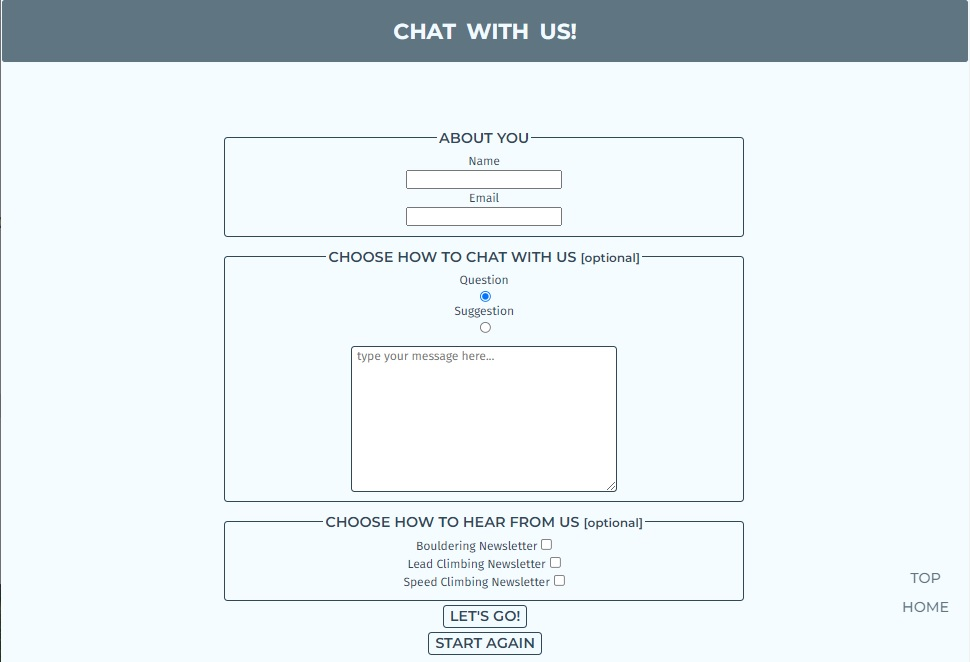
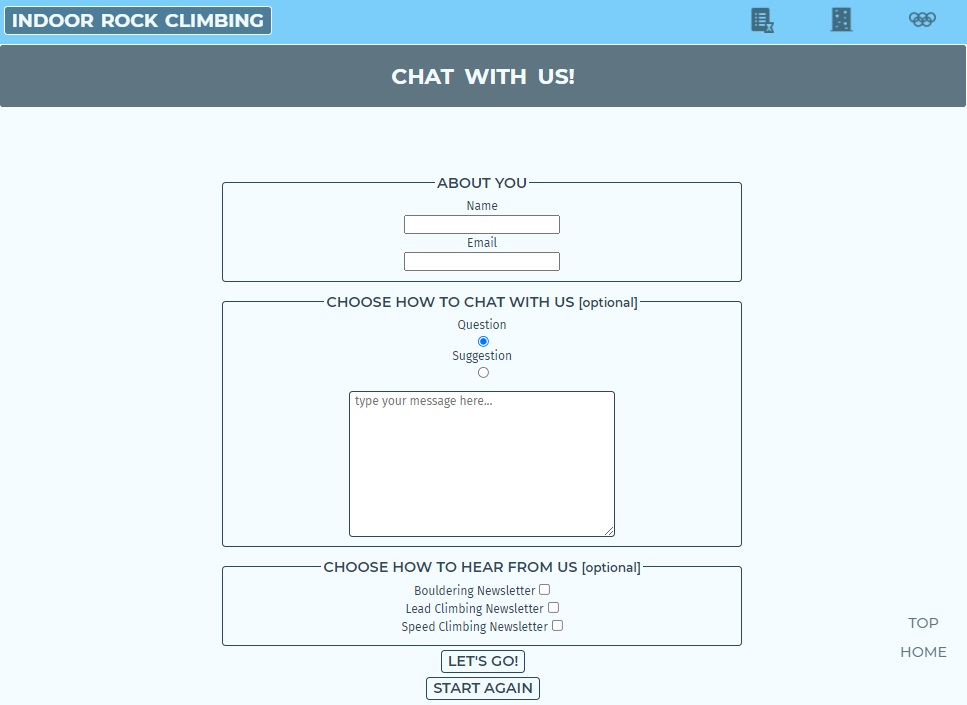
Add new images for site credits, thank you page and form for within the README and make gramamtical changes

diff --git a/README.md b/README.md
@@ -11,14 +11,11 @@ This site provides an insight into the rules, equipment and technical language i
 ## Contents [**to complete - will work once each section is complete**]
 ---
 
-* [Initial Project Vision](https://github.com/mountaincharlie/project-one-rock-climbing#initial-project-vision)
-* [Technologies](https://github.com/mountaincharlie/project-one-rock-climbing#technologies)
-* [Features](https://github.com/mountaincharlie/project-one-rock-climbing#features)
-* [Pages](https://github.com/mountaincharlie/project-one-rock-climbing#pages)
+* [Technologies Used](https://github.com/mountaincharlie/project-one-rock-climbing#technologies-used)
+* [Pages and Features Breakdown](https://github.com/mountaincharlie/project-one-rock-climbing#pages-and-features-breakdown)
 * [Responsiveness](https://github.com/mountaincharlie/project-one-rock-climbing#responsiveness)
-* [UXD](https://github.com/mountaincharlie/project-one-rock-climbing#uxd)
+* [User Experience Design](https://github.com/mountaincharlie/project-one-rock-climbing#user-experience-design)
 * [Accessability](https://github.com/mountaincharlie/project-one-rock-climbing#accessability)
-* [Other Feature Ideas](https://github.com/mountaincharlie/project-one-rock-climbing#other-feature-ideas)
 * [Testing](https://github.com/mountaincharlie/project-one-rock-climbing#testing)
 * [Deployment](https://github.com/mountaincharlie/project-one-rock-climbing#deployment)
 * [Credits](https://github.com/mountaincharlie/project-one-rock-climbing#credits)
@@ -43,8 +40,8 @@ This site provides an insight into the rules, equipment and technical language i
 ![Screenshot of Homepage header logo and welcome banner](./assets/images/homepage-header-welcome.jpg "Homepage header logo and welcome banner")
 
 * Main Navigation: 
-    * Found below the Welcome banner and is the main feature of the homepage.
-    * Contains links to the 'Background', 'The 3 Main Climbing Disciplines' and 'As Seen At Tokyo 2020' pages with icons related to the page headings.
+    * Found below the Welcome banner and is the primary feature of the homepage.
+    * Contains links to the 'Background', 'The 3 Main Climbing Disciplines' and 'As Seen At Tokyo 2020' informational pages with icons related to the page headings.
 * Background image:
      * Draws the attention of the user as its colourful but the white linear-gradient placed over it means it doesn't distract from the page content. 
 
@@ -82,15 +79,15 @@ This site provides an insight into the rules, equipment and technical language i
 ![Screenshot of The Brief Background of Rock Climbing section](./assets/images/brief-background.jpg "The Brief Background of Rock Climbing section")
 
 * The Climbing Terminology section:
-    * Explains briefly about the terminology/slang in the climbing community, which is an aspect of the sport which can be confusing for those who are new to it.
+    * Explains briefly about the terminology/slang in the climbing community, which is an aspect of the sport that can be confusing for those who are new to it.
     * Contains four subsections which catagorise the most common climbing terminology to make it easer for the user to explore the different terms.
 
 ![Screenshot of The Climbing Terminology section](./assets/images/climbing-terms.jpg "The Climbing Terminology section")
 
 * Terminology subsections:
-    * Cover four catagories: Climbing Holds, Types of Climbing Walls, Climbing Technique and Competition Specific
-    * Contain an explanatory for the subsection catagory and explain that the user should hover over/tap on the informational tiles to find out the explanations for each term.
-    * Contain informational tiles, which expand and change colour when the user hovers over it on a desktop or taps it on a smart phone, to provide the term's explanation.
+    * Cover four catagories; Climbing Holds, Types of Climbing Walls, Climbing Technique and Competition Specific
+    * Contain an explanation for the subsection catagory and explain that the user should hover over/tap on the informational tiles to find out the defintions for each term.
+    * Contain informational tiles, which expand and change colour when the user hovers over it on a desktop or taps it on a smart phone, to provide the term's definition.
 
 ![Screenshot of Types of Climbing Walls Terminology subsection](./assets/images/term-subsections.jpg "Types of Climbing Walls Terminology subsection")
 
@@ -130,6 +127,7 @@ This site provides an insight into the rules, equipment and technical language i
 * The First Olympic Apperance section:
     * Contains a short embedded YouTube video from the Olympics offical YouTube account about the sport's first olympic appearance.
     * Contains a blockquote for the english translation of the Olympic Motto which is mentioned at the end of the YouTube video.  
+    * Contains a short paragraph about what it meant for the climbing community to have their sport in the Olympics for the first time.
 
 ![Screenshot of The First Olympic Apperance section](./assets/images/first-appearance.jpg "The First Olympic Apperance section")
 
@@ -165,7 +163,7 @@ This site provides an insight into the rules, equipment and technical language i
     * The user's details are required inputs for the form and will prompt the user to enter a correct name/email address if they try to submit without.
     * There are radio inputs for the optional contact so that the user can submit a question or suggestion and this allows us to catagorise what kind of contact the user is making.
     * There are tickbox inputs for the optional newsletter signups so the user can choose which specific newsletters they may want to sign up to.  
-* Contains a 'LET'S GO!" submit input to submit the form and a 'STAR AGAIN' reset input to reset the form.
+* Contains a 'LET'S GO!" submit input to submit the form and a 'START AGAIN' reset input to reset the form.
 
 ![Screenshot of The Chat With Us! Form](./assets/images/form.jpg "The Chat With Us! Form")
 
@@ -184,10 +182,10 @@ This site provides an insight into the rules, equipment and technical language i
 
 ![Screenshot of The Site Credits Page](./assets/images/site-credits.jpg "The Site Credits Page")
 
-## User Experience Design (UXD) [**to complete**]
+## User Experience Design [**to complete**]
 ---
 
-In order for users to have a good experience while using the website, I followed the user centered design process, mading sure to consider the usefulness, usability and value of different features of the site and making them intuative, simple and enjoyable.  
+In order for users to have a good experience while using the website, I followed the user centered design process, making sure to consider the usefulness, usability and value of different features of the site and that they were intuative, simple and enjoyable.  
 
 ### Styling 
 * Colour scheme: 
@@ -285,7 +283,7 @@ In order to make the website more accessible, for those who rely on screen reade
 ## Testing [**to complete**]
 ---
 
-### HTML & CSS validator warnings and fixes:
+### HTML & CSS validator warnings and fixes
 * [19-10-21] 1st testing index.html in WC3 markup validator indicated:
     * that I had section elements without headings, which led me to create the welcome h2 heading for the #welcome-para section and to realise that my main-nav nav element did not need to be within a section element.
     * that I had anchor elements within button elements, which led me to research buttons vs anchor elements from an accessability point of view and to ulitmately change the buttons to just be anchor element links (as explained in the Accessability section).
@@ -305,7 +303,7 @@ In order to make the website more accessible, for those who rely on screen reade
 
 ![Screenshot of Google Dev Tool's Lighthouse Score for my website](./assets/images/lighthouse-score.jpg "Google Dev Tool's Lighthouse Score for my website") 
 
-### Bugs and Fixes:
+### Bugs and Fixes
 * [21-10-21] couldn't get the font-weight property to work for my Monserrat and Roboto Google Fonts. 
     * Solution: After searching through the Google Fonts site I realised I needed to import all of the font weights that I wanted to use in my website, so I imported a number that I wanted to try.  
 * [24-10-21] on larger screens some of my pages which didn't have a lot of content ment that the footer was not at the bottom of the viewport. 
@@ -322,13 +320,13 @@ No unfixed bugs.
 ## Deployment [**to complete**]
 ---
 
-### Deployment Process on GitHub:
+### Deployment Process on GitHub
 * I selected the Settings tab from within the project-one-rock-climbing repository 
 * The selected the Pages tab within Settings
 * Then chose Main from the Branch dropdown menu
 * Finally, the page then provided the live link to my website and after a few minutes it was ready to be viewed
 
-### Live website link:
+### Live website link
 * <a href = "https://mountaincharlie.github.io/project-one-rock-climbing/">Indoor Rock Climbing</a>
 
 ## Credits [**to complete**]
@@ -391,41 +389,41 @@ Page content:
 ##  Site Expansions Ideas [**to complete**] 
 ---
 
-Features that could be added to expand and improve the website.
+Features that could be added to expand and improve the website in the future.
 
-### Fixed navigation links:
-Like the 3 icon links for the Bouldering, Lead Climbing and Speed sections on my The Three Main Climbing Disciplines page, it would be nice to add these extra navigation features on the Background and As Seen At Tokyo 2020 pages. 
+### Fixed navigation links for sections within the pages
+* Like the 3 icon links for the Bouldering, Lead Climbing and Speed sections on my The Three Main Climbing Disciplines page, it would be nice to add these extra navigation features on the Background and As Seen At Tokyo 2020 pages. 
 
-### Icons for the TOP and HOME links:
-To give some more uniformity with the icons on my The Three Main Climbing Disciplines page, it would be nice to replace the TOP and HOME fixed-links with icons like an up arrow for TOP and a house for HOME.
+### Icons for the TOP and HOME links
+* To give some more uniformity with the icons on my The Three Main Climbing Disciplines page, it would be nice to replace the TOP and HOME fixed-links with icons like an up arrow for TOP and a house for HOME.
 
-### Images for the equipment required:
-Having pictures of the equipment such as the climbing shoes and harnesses could help users who haven't seen the equipment make sense of it more in their head. 
+### Images for the equipment required
+* Having pictures of the equipment such as the climbing shoes and harnesses could help users who haven't seen the equipment make sense of it more in their head. 
 
-### Videos for the equipment required: 
-Videos could be used to demonstrate how to use the climbing equipment and/or to show some best practices in rock climbing.
+### Videos for the equipment required
+* Videos could be used to demonstrate how to use the climbing equipment and/or to show some best practices in rock climbing.
 
-### Paraclimbing page:
-Include a page about paraclimbers; more information on accessability for different people in climbing, about casual and competative paraclimbing and the possibility of it making an apperance in a later Paraolympics.
+### Paraclimbing page
+* Include a page about paraclimbers; more information on accessability for different people in climbing, about casual and competative paraclimbing and the possibility of it making an apperance in a later Paraolympics.
 
-### Find a gym near you function:
-Using Google Maps inside the website so the user can type in their location and what type of climbing they would like to try and would show them the best matches in their area and a way for the user to click a link to the website of the climbing gym(s) they discover.
+### Find a gym near you function
+* Using Google Maps inside the website so the user can type in their location and what type of climbing they would like to try and would show them the best matches in their area and a way for the user to click a link to the website of the climbing gym(s) they discover.
 
-### Site specific social media:
-Social media aspect for climbers to get in contact with eachother, perhaps based on the gym they use. 
+### Site specific social media
+* Social media aspect for climbers to get in contact with eachother, perhaps based on the gym they use. 
 
-### 'Climb-through' quiz:
-A basic quiz game where the user works their way up a climbing wall, in a 'climb-through' (as opposed to a walk-through), by answering different questions about things learnt on the site (rules, technique, equipment etc...).
+### 'Climb-through' quiz
+* A basic quiz game where the user works their way up a climbing wall, in a 'climb-through' (as opposed to a walk-through), by answering different questions about things learnt on the site (rules, technique, equipment etc...).
 
 ### Actual newsletters 
-With
-* updates from different gyms
-* general climbing news 
-* a section for answering questions sent in by people
+* With
+    * updates from different gyms
+    * general climbing news 
+    * a section for answering questions sent in by people
 
-### Site blog:
-For users to contribute to. With submissions being monitored before posting. 
+### Site blog
+* For users to contribute to. With submissions being monitored before posting. 
 
-### Advertising:
-For climbing equipment, places to climb and events in the relevant sections of the website.
+### Advertising
+* For climbing equipment, places to climb and events in the relevant sections of the website.
 
